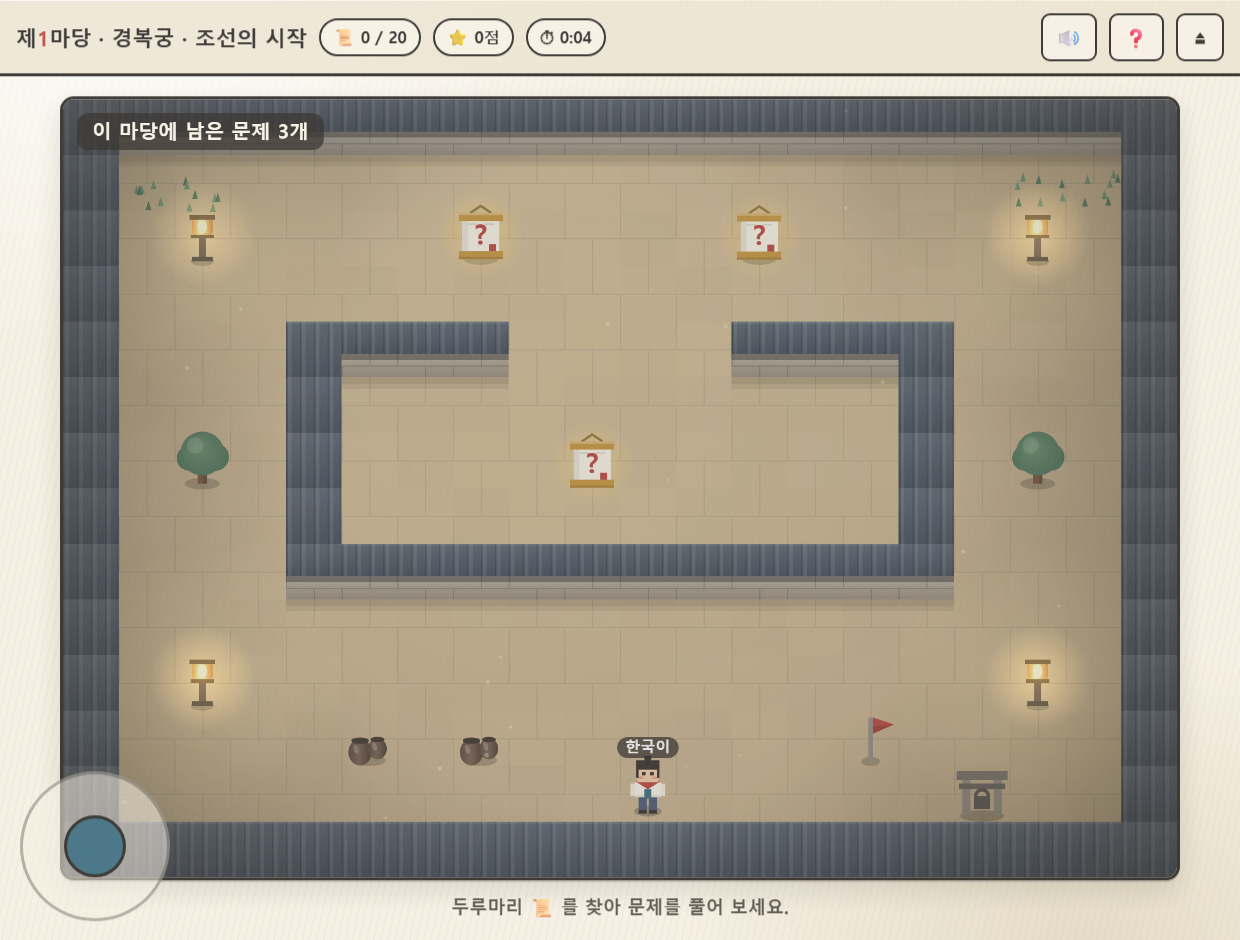
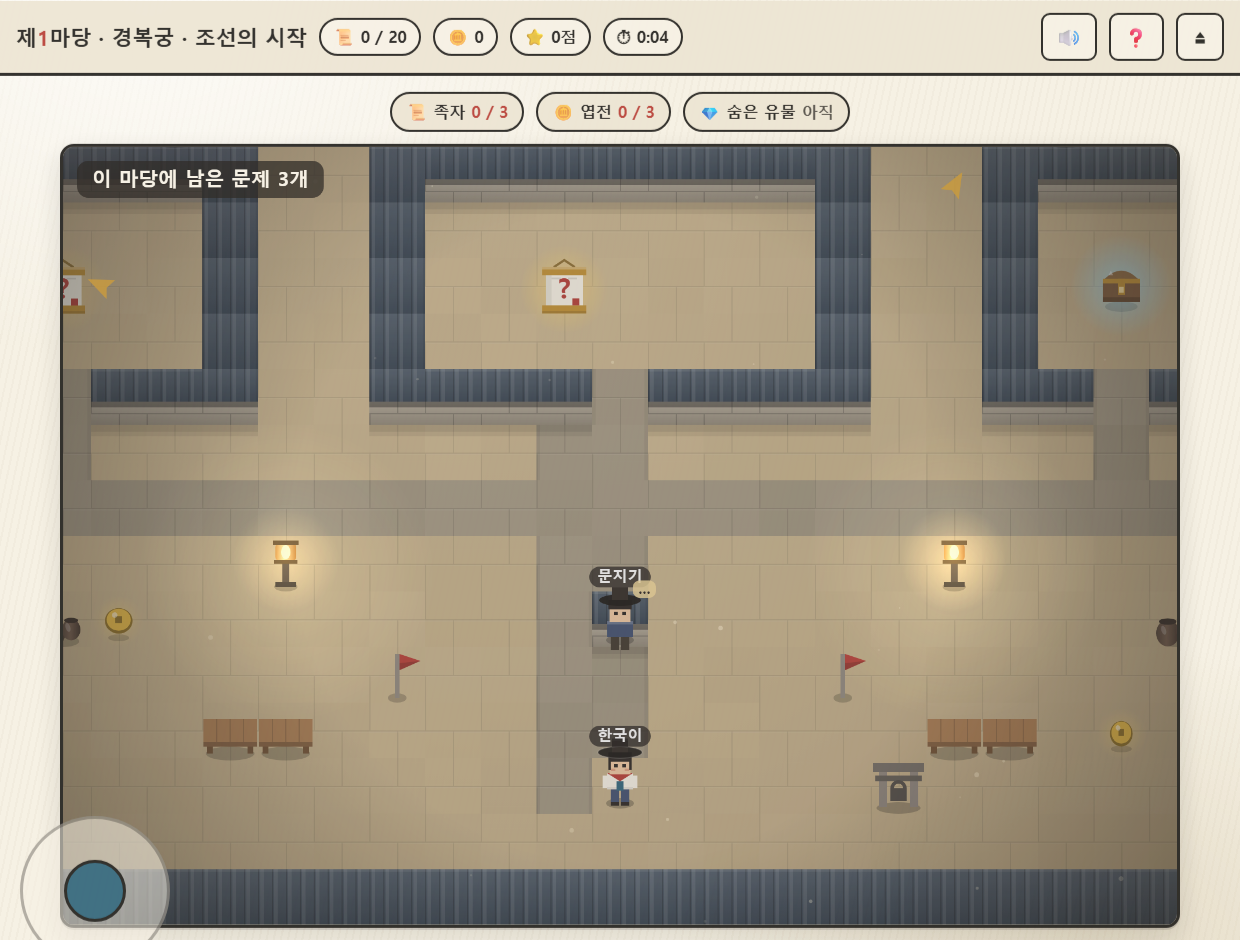
feat: 2D 퀴즈맵 다섯 마당을 장소답게 재설계 + 도달 가능성 자동 검사
맵을 3배로 키운 뒤 소품 밀도가 따라오지 못해 화면 절반이 빈 바닥이었다.
"저잣거리"인지 "성"인지 구분되지 않아 장소로 읽히지 않는 상태였다.

- 지도를 손으로 세지 않고 좌표로 조립하도록 생성기를 도입.
  30칸을 손으로 세면 반드시 틀리므로 행 길이·Q/엽전/유물/NPC 개수를
  기계가 검증한 뒤에만 반영한다. 소품·벽 밀도 34~36% 확보
- 길(`,`)과 개천(`w`) 타일 추가. 큰길은 두 칸 폭에 바닥보다
  뚜렷하게 어두운 전돌색 → 화면에 동선이 눈으로 보인다
- 마당별 구조를 부여
  · 경복궁: 전돌 대로 + 근정전·행각·뒤뜰 전각
  · 집현전: 가운데 복도 + 좌우 연구실 4칸 + 벽면 서가
  · 한양 사람들: 십자 대로 + 길 양쪽 시전 여섯 채 + 개천·우물
  · 저잣거리와 마당: 가운데 멍석 무대 + 구경꾼 평상 + 주변 초가
  · 남한산성: 이중 성벽 + 행궁 + 삼문(남·동·서)

★ 도달 가능성 검사에서 실제 버그를 잡았다
  제1마당 뒤뜰 전각 두 채에 문이 없어 그 안의 문제와 엽전에
  갈 수 없었다. 학생이 끝까지 클리어할 수 없는 상태였다. 문을 냈다.
  이제 다섯 마당 50개 지점이 모두 시작 자리에서 도달 가능하다.

Claude-Session: https://claude.ai/code/session_01M9a5Ao4Cmrk2rqMNRKuhyU

diff --git a/조선시대-퀴즈맵.html b/조선시대-퀴즈맵.html
@@ -646,7 +646,7 @@ var 설정 = {
 
 var 마당 = [
   { 이름:'경복궁', 부제:'조선의 시작',
-    floor:0xc7b085, floorStyle:'stone', wall:0xa79e8d, roof:0x3d4a57, roofStyle:'tile',
+    floor:0xc7b085, road:0x9b8f78, floorStyle:'stone', wall:0xa79e8d, roof:0x3d4a57, roofStyle:'tile',
     leaf:0x3f6b4e, leaf2:0x5d8a63, dark:0.14, mote:'rgba(255,246,220,1)',
     유물:{ 이름:'경국대전', 아이콘:'책',
            설명:'조선의 법을 하나로 모은 책이에요. 관리를 뽑는 일부터 백성의 생활까지 정해 두었어요.' },
@@ -656,7 +656,7 @@ var 마당 = [
       '담장 안쪽 작은 방도 살펴보세요!' ] } },
 
   { 이름:'집현전', 부제:'세종의 글자와 과학',
-    floor:0xa2764a, floorStyle:'wood', wall:0xc4b494, roof:0x3a322a, roofStyle:'tile',
+    floor:0xa2764a, road:0x8a6238, floorStyle:'wood', wall:0xc4b494, roof:0x3a322a, roofStyle:'tile',
     leaf:0x3f6b4e, leaf2:0x5d8a63, dark:0.38, mote:'rgba(255,230,180,1)',
     유물:{ 이름:'앙부일구', 아이콘:'해시계',
            설명:'해 그림자로 시각을 알려 주는 해시계예요. 솥처럼 오목하게 생겼어요.' },
@@ -666,7 +666,7 @@ var 마당 = [
       '왼쪽 아래 작은 방에 귀한 물건을 두었어요. 찾아보세요.' ] } },
 
   { 이름:'한양 사람들', 부제:'유교와 신분',
-    floor:0xb7a17c, floorStyle:'dirt', wall:0x94825f, roof:0x8a6a3c, roofStyle:'thatch',
+    floor:0xb7a17c, road:0x94856a, floorStyle:'dirt', wall:0x94825f, roof:0x8a6a3c, roofStyle:'thatch',
     leaf:0x4a7150, leaf2:0x6d9a69, dark:0.10, mote:'rgba(255,246,220,1)',
     유물:{ 이름:'삼강행실도', 아이콘:'책',
            설명:'본받을 만한 사람들의 이야기를 그림과 함께 실은 책이에요. 글을 모르는 사람도 볼 수 있었어요.' },
@@ -676,7 +676,7 @@ var 마당 = [
       '담장으로 둘러싸인 곳간에 귀한 책이 있다던데…' ] } },
 
   { 이름:'저잣거리와 마당', 부제:'조선 후기 백성의 문화',
-    floor:0x7f9a5c, floorStyle:'grass', wall:0x8a7550, roof:0xa8843c, roofStyle:'thatch',
+    floor:0x7f9a5c, road:0x8e8560, floorStyle:'grass', wall:0x8a7550, roof:0xa8843c, roofStyle:'thatch',
     leaf:0x3d6b47, leaf2:0x63925e, dark:0.14, mote:'rgba(255,226,236,1)',
     유물:{ 이름:'김홍도의 씨름', 아이콘:'그림',
            설명:'백성들이 씨름을 구경하는 모습을 그린 풍속화예요. 그때 사람들의 생활이 그대로 담겨 있어요.' },
@@ -686,7 +686,7 @@ var 마당 = [
       '왼쪽 곳간에 이름난 그림 한 점이 걸려 있소.' ] } },
 
   { 이름:'남한산성', 부제:'전쟁을 이겨낸 사람들',
-    floor:0x736d64, floorStyle:'stone', wall:0x565049, roof:0x393632, roofStyle:'stone',
+    floor:0x736d64, road:0x77726a, floorStyle:'stone', wall:0x565049, roof:0x393632, roofStyle:'stone',
     leaf:0x3b5641, leaf2:0x527049, dark:0.44, mote:'rgba(196,214,255,1)',
     유물:{ 이름:'난중일기', 아이콘:'책',
            설명:'이순신 장군이 전쟁 중에 쓴 일기예요. 그날그날의 싸움과 마음이 적혀 있어요.' },
@@ -829,117 +829,119 @@ var 문제은행 = [
 /* 마당 지도 — 가로 30칸 × 세로 20칸. 화면은 이 지도 위를 따라다닌다.
    #  담장/성벽      .  바닥        Q  문제(족자)     P  다음 마당으로 가는 문
    @  시작 자리      c  엽전        r  숨겨진 유물    n  이야기를 들려주는 사람
-   T  나무   J  장독   W  우물   S  서가   B  좌판   M  평상   F  깃발   L  등롱   G  풀숲   */
+   T  나무   J  장독   W  우물   S  서가   B  좌판   M  평상   F  깃발   L  등롱   G  풀숲
+   ,  길(전돌·마루)   w  개천(물, 못 지나감)                                          */
 var 지도 = [
 /* 제1마당 · 경복궁 */
 [ '##############################',
-  '#GG......................GG..#',
-  '#.L..........Q..........L....#',
-  '#............................#',
-  '#....########....########....#',
-  '#....#......#....#......#....#',
-  '#.T..#..c...#....#...c..#..T.#',
-  '#....#......#....#......#....#',
-  '#....####..##....##..####....#',
-  '#.......................n....#',
-  '#....J.J.......Q.............#',
-  '#............................#',
-  '#.L....................L.....#',
-  '#......########........c.....#',
-  '#......#......#..............#',
-  '#......#..Q...#....r....F....#',
-  '#......###..###..............#',
-  '#GG.......@..............P.GG#',
+  '#.....#######.....#######....#',
+  '#..G..#..c..#.,,..#..Q..#..G.#',
+  '#.....###,##L.,,..L##,###....#',
+  '#...,,,,,,,,,,,,,,,,,,,,,,...#',
+  '#.L....T......,,.......T....L#',
+  '#..######..#########..######.#',
+  '#..#....#..#.......#..#....#.#',
+  '#..#.Q..#..#..Q....#..#.r..#.#',
+  '#..#....#..#.......#..#....#.#',
+  '#..##,###..####,####..##,###.#',
+  '#....,........,,........,....#',
+  '#...,,,,,,,,,,,,,,,,,,,,,,...#',
+  '#.L......L....,,.....L......L#',
+  '#...JJc.......,n.........JJ..#',
+  '#..........F..,,...F.........#',
+  '#.......MM....,,.....MM.c....#',
+  '#..GT.........,@....P.....TG.#',
   '#............................#',
   '##############################' ],
 
 /* 제2마당 · 집현전 */
 [ '##############################',
-  '#............................#',
-  '#.SS.SS.SS..SS.SS.SS..SS.SS..#',
-  '#............................#',
-  '#.L....Q......c......Q....L..#',
-  '#............................#',
-  '#####..###########..#####..###',
-  '#............................#',
-  '#.SS...M.....n.....M.......c.#',
-  '#............................#',
-  '#....Q..............Q........#',
-  '#............................#',
-  '#.L...####........####....L..#',
-  '#.....#..#........####.......#',
-  '#.....#r.#........####..c....#',
-  '#.....#..#........####.......#',
-  '#.....#..#........####.......#',
-  '#.......@..............P.....#',
-  '#............................#',
+  '#.............,L.............#',
+  '#.SS.SS.SS.SS.,,.SS.SS.SS.SS.#',
+  '#.............,,.............#',
+  '#..########...,Q...########..#',
+  '#..#..Q.c.#...,,...#...Q..#..#',
+  '#..#......#..M,,.M.#......#..#',
+  '#..###,####...,,...####,###..#',
+  '#.....,.......,,.......,.....#',
+  '#.L,,,,,,L,,n,,,,,,,,L,,,,,,L#',
+  '#.....,.......,,.......,.....#',
+  '#..###,####...,,...####,###..#',
+  '#..#......#...,c...#......#..#',
+  '#..#..Q...#..M,,.M.#.c.r..#..#',
+  '#..########...,,...########..#',
+  '#.............,,.............#',
+  '#.SS.SS.SS.SS.,,.SS.SS.SS.SS.#',
+  '#.............,@....P........#',
+  '#.............,L.............#',
   '##############################' ],
 
 /* 제3마당 · 한양 사람들 */
 [ '##############################',
-  '#............................#',
-  '#.BB..BB..BB...BB..BB..BB..L.#',
-  '#..Q.....Q.......Q...........#',
-  '#............................#',
-  '#.L....W........T......c...L.#',
-  '#............................#',
-  '#....Q......M......n.......c.#',
-  '#............................#',
-  '#.JJ......########.....TT....#',
-  '#.........#......#...........#',
-  '#.........#..r...#....G......#',
-  '#.........#......#...........#',
-  '#.........####..##...........#',
-  '#............................#',
-  '#.L..........c.............L.#',
-  '#............................#',
-  '#........@..........P........#',
-  '#............................#',
+  '#.............,,.............#',
+  '#....c........L,........c....#',
+  '#.............,,.............#',
+  '#.############,,.#############',
+  '#.#Q.##..##Q.#,,.#r.##..##Q.##',
+  '#.#..##..##..#,,.#..##..##..##',
+  '#.#,###,###,##,,.#,###,###,###',
+  '#..,...,...,..,,..,...,...,..#',
+  '#,L,,,,L,,,,,,,,n,,,,,L,,,,,L#',
+  '#,,BB,,,BB,,,,,,,,,BB,,,BB,,,#',
+  '#.............,,.............#',
+  '#.T...W....T..c,.T...Q......T#',
+  '#.............,,.............#',
+  '#.............,,.............#',
+  '#.wwwwwwwwwww.,,.wwwwwwwwwwww#',
+  '#.............,,.............#',
+  '#..JJ....MM...L,...MM....JJ..#',
+  '#.............@,...P.........#',
   '##############################' ],
 
 /* 제4마당 · 저잣거리와 마당 */
 [ '##############################',
-  '#GG......................GG..#',
-  '#.L....Q..........Q......L...#',
   '#............................#',
-  '#.T.....##########.......T...#',
-  '#.......#........#...........#',
-  '#.......#...Q....#......c....#',
-  '#.......##....####...........#',
-  '#............................#',
-  '#.MM....c......n.......MM....#',
-  '#............................#',
-  '#......####........####......#',
-  '#......#r.#........#..#......#',
-  '#......#..#........#..#...F..#',
-  '#............................#',
-  '#.L.........Q........c....L..#',
-  '#GG......................GG..#',
-  '#.......@...........P........#',
-  '#............................#',
+  '#.######.......L......######.#',
+  '#.#.Q..#..BB.......BB.#..Q.#.#',
+  '#.#....#..............#....#.#',
+  '#.##,###.....F...F....###,##.#',
+  '#...,....................,...#',
+  '#..........#########.........#',
+  '#.T........#...Q...#........T#',
+  '#.......MM.#.MMMMM.#.MM......#',
+  '#..L.......#.MMMMM.#.......L.#',
+  '#.......MM.#.......#.MM......#',
+  '#.T....c...####,####...c....T#',
+  '#..............,,............#',
+  '#.....T........,,.......T....#',
+  '#.,,,,,,,,L,,,,,,,,,L,,,,,,,.#',
+  '#.##,##.....n..,,..........c.#',
+  '#.#.r.#..GG....@,..PGG..Q....#',
+  '#.#####........L.............#',
   '##############################' ],
 
 /* 제5마당 · 남한산성 */
 [ '##############################',
   '#............................#',
-  '#.L...Q............Q.....L...#',
   '#............................#',
-  '#...######......######.......#',
-  '#...#....#......#....#...c...#',
-  '#...#..Q.#......#..n.#.......#',
-  '#...#....#......#....#.......#',
-  '#...##..##......##..##.......#',
-  '#............................#',
-  '#......c......Q....F.........#',
-  '#............................#',
-  '#.L.....######........###..L.#',
-  '#.......#....#........#r#....#',
-  '#.......#..Q.#........#.#....#',
-  '#.......#....#...............#',
-  '#.......##..##.....c.........#',
-  '#.T.....@..........P.......T.#',
-  '#............................#',
+  '#.T.######################.T.#',
+  '#...#......F...,,..F.....#...#',
+  '#...#..Q.......c,......Q.#...#',
+  '#...#L.....#########.....L...#',
+  '#...#......#.......#.....#...#',
+  '#...#.JJ...#...Q...#...JJ#...#',
+  '#..,,......#.......#.....,,..#',
+  '#...#......####,####.....#...#',
+  '#...#.W..c.....,,....c..W#...#',
+  '#...#..........F,........#...#',
+  '#...#,,,,,,,L,,,,,L,Q,,,,#...#',
+  '#...#L.........,,........L...#',
+  '#...#..Q.MM..n.,,...MM.r.#...#',
+  '#.T.###########,,#########.T.#',
+  '#..............,.............#',
+  '#..............@....P........#',
   '##############################' ]
+
 ];
 
 /* ============================================================================
@@ -1086,7 +1088,7 @@ function loadMap(m){
   updateGoals();
   setTip('족자를 찾아 문제를 풀어 보세요.');
 }
-function solid(ch){ return 'TJWSBMFL#'.indexOf(ch) >= 0; }   // G(풀)만 지나갈 수 있다
+function solid(ch){ return 'TJWSBMFL#w'.indexOf(ch) >= 0; }   // G(풀)만 지나갈 수 있다
 function blocked(px, py){
   var rad = 14;
   var c0 = Math.floor((px-rad)/T), c1 = Math.floor((px+rad)/T);
@@ -1147,6 +1149,23 @@ function col(hex){                       // 0xRRGGBB → '#rrggbb'
 /* ---- 바닥 ---- */
 function drawFloor(x, y, c, r, th){
   var h = hash2(c, r);
+  if(grid[r][c] === ','){                          // 길 — 마당마다 다른 바닥 위에 깔린다
+    var rd = th.road || 0xbfae8c;
+    statG.fillStyle = shade(rd, Math.round((h-0.5)*8));
+    statG.fillRect(x, y, T, T);
+    statG.strokeStyle = 'rgba(0,0,0,.13)'; statG.lineWidth = 1;
+    var off = (r % 2) ? T/2 : 0;
+    statG.beginPath();
+    statG.moveTo(x, y+T/2+.5); statG.lineTo(x+T, y+T/2+.5);
+    statG.moveTo(x+off+.5, y); statG.lineTo(x+off+.5, y+T/2);
+    statG.moveTo(x+((off+T/2)%T)+.5, y+T/2); statG.lineTo(x+((off+T/2)%T)+.5, y+T);
+    statG.stroke();
+    statG.fillStyle = 'rgba(255,255,255,.07)'; statG.fillRect(x, y+T/2+1, T, 1);
+    // 길 가장자리 그늘
+    if(grid[r] && grid[r][c-1] !== ',') { statG.fillStyle='rgba(0,0,0,.07)'; statG.fillRect(x,y,3,T); }
+    if(grid[r] && grid[r][c+1] !== ',') { statG.fillStyle='rgba(0,0,0,.07)'; statG.fillRect(x+T-3,y,3,T); }
+    return;
+  }
   statG.fillStyle = shade(th.floor, Math.round((h-0.5)*5));
   statG.fillRect(x, y, T, T);
 
@@ -1360,6 +1379,20 @@ function drawProp(ch, x, y, c, r, th){
     statG.fillStyle = '#5a4326'; statG.fillRect(cx-11, y+4, 22, 4); statG.fillRect(cx-10, y+21, 20, 3);
     statG.fillStyle = 'rgba(255,240,200,.95)';
     statG.beginPath(); statG.ellipse(cx, y+14, 4, 6, 0, 0, 6.3); statG.fill();
+  } else if(ch === 'w'){                             // 개천
+    var gw = statG.createLinearGradient(0, y, 0, y+T);
+    gw.addColorStop(0, '#3f6f8e'); gw.addColorStop(.5, '#5b93b0'); gw.addColorStop(1, '#37607c');
+    statG.fillStyle = gw; statG.fillRect(x, y, T, T);
+    statG.strokeStyle = 'rgba(255,255,255,.30)'; statG.lineWidth = 2;
+    for(var i=0;i<2;i++){
+      var wy = y + 12 + i*18 + hash2(c*3+i, r)*8;
+      statG.beginPath();
+      statG.moveTo(x+4, wy);
+      statG.quadraticCurveTo(x+T/2, wy-4, x+T-4, wy);
+      statG.stroke();
+    }
+    statG.fillStyle = 'rgba(0,0,0,.18)';
+    if(grid[r-1] && grid[r-1][c] !== 'w') statG.fillRect(x, y, T, 4);
   } else if(ch === 'G'){                             // 풀숲
     for(var i=0;i<7;i++){
       var gx = x + 4 + hash2(c*13+i, r*7)*(T-8), gy = y + 12 + hash2(c*5, r*23+i)*(T-18);
@@ -1392,7 +1425,7 @@ function buildStatic(){
   // 소품
   for(var r=0;r<MAPR;r++) for(var c=0;c<MAPC;c++){
     var ch = grid[r][c];
-    if('TJWSBMFLG'.indexOf(ch) >= 0){
+    if('TJWSBMFLGw'.indexOf(ch) >= 0){
       drawProp(ch, c*T, r*T, c, r, th);
       if(ch === 'L') lanterns.push({ x:c*T+T/2, y:r*T+14 });
     }
